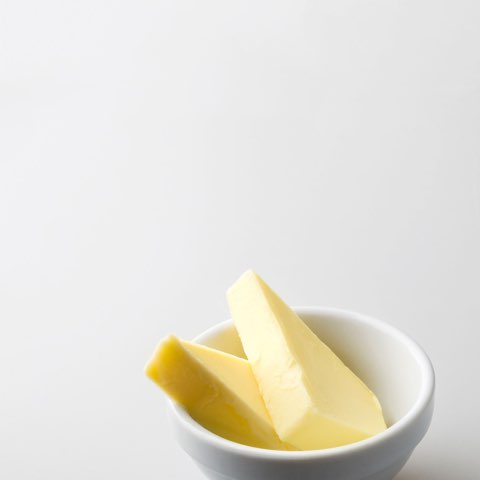
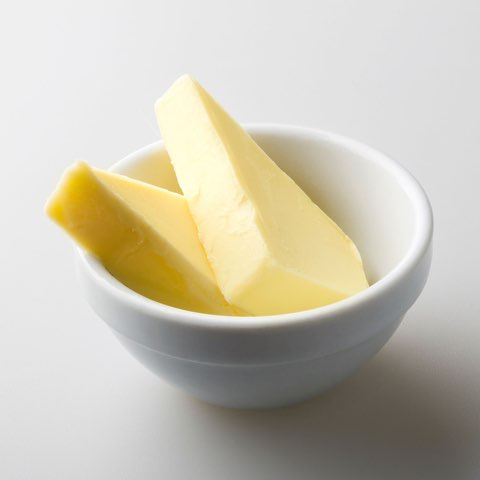
Butter-Foto neu zugeschnitten
Ausschnitt auf das Schälchen zentriert (vorher saß die Butter unten rechts);
Grundlage ist ein zugeschnittenes Original in Inbox/erledigt, das
„photos.py recompress“ künftig bevorzugt.

diff --git a/web/sw.js b/web/sw.js
@@ -1,7 +1,7 @@
 // Service Worker: speichert die App beim ersten Aufruf, danach läuft sie komplett offline.
 // VERSION und PRECACHE werden von tools/web/build.py gesetzt – nicht von Hand ändern.
 
-const VERSION = '2b6d3c5bfc66';
+const VERSION = 'b18687540360';
 const PRECACHE = [
   './',
   'index.html',
